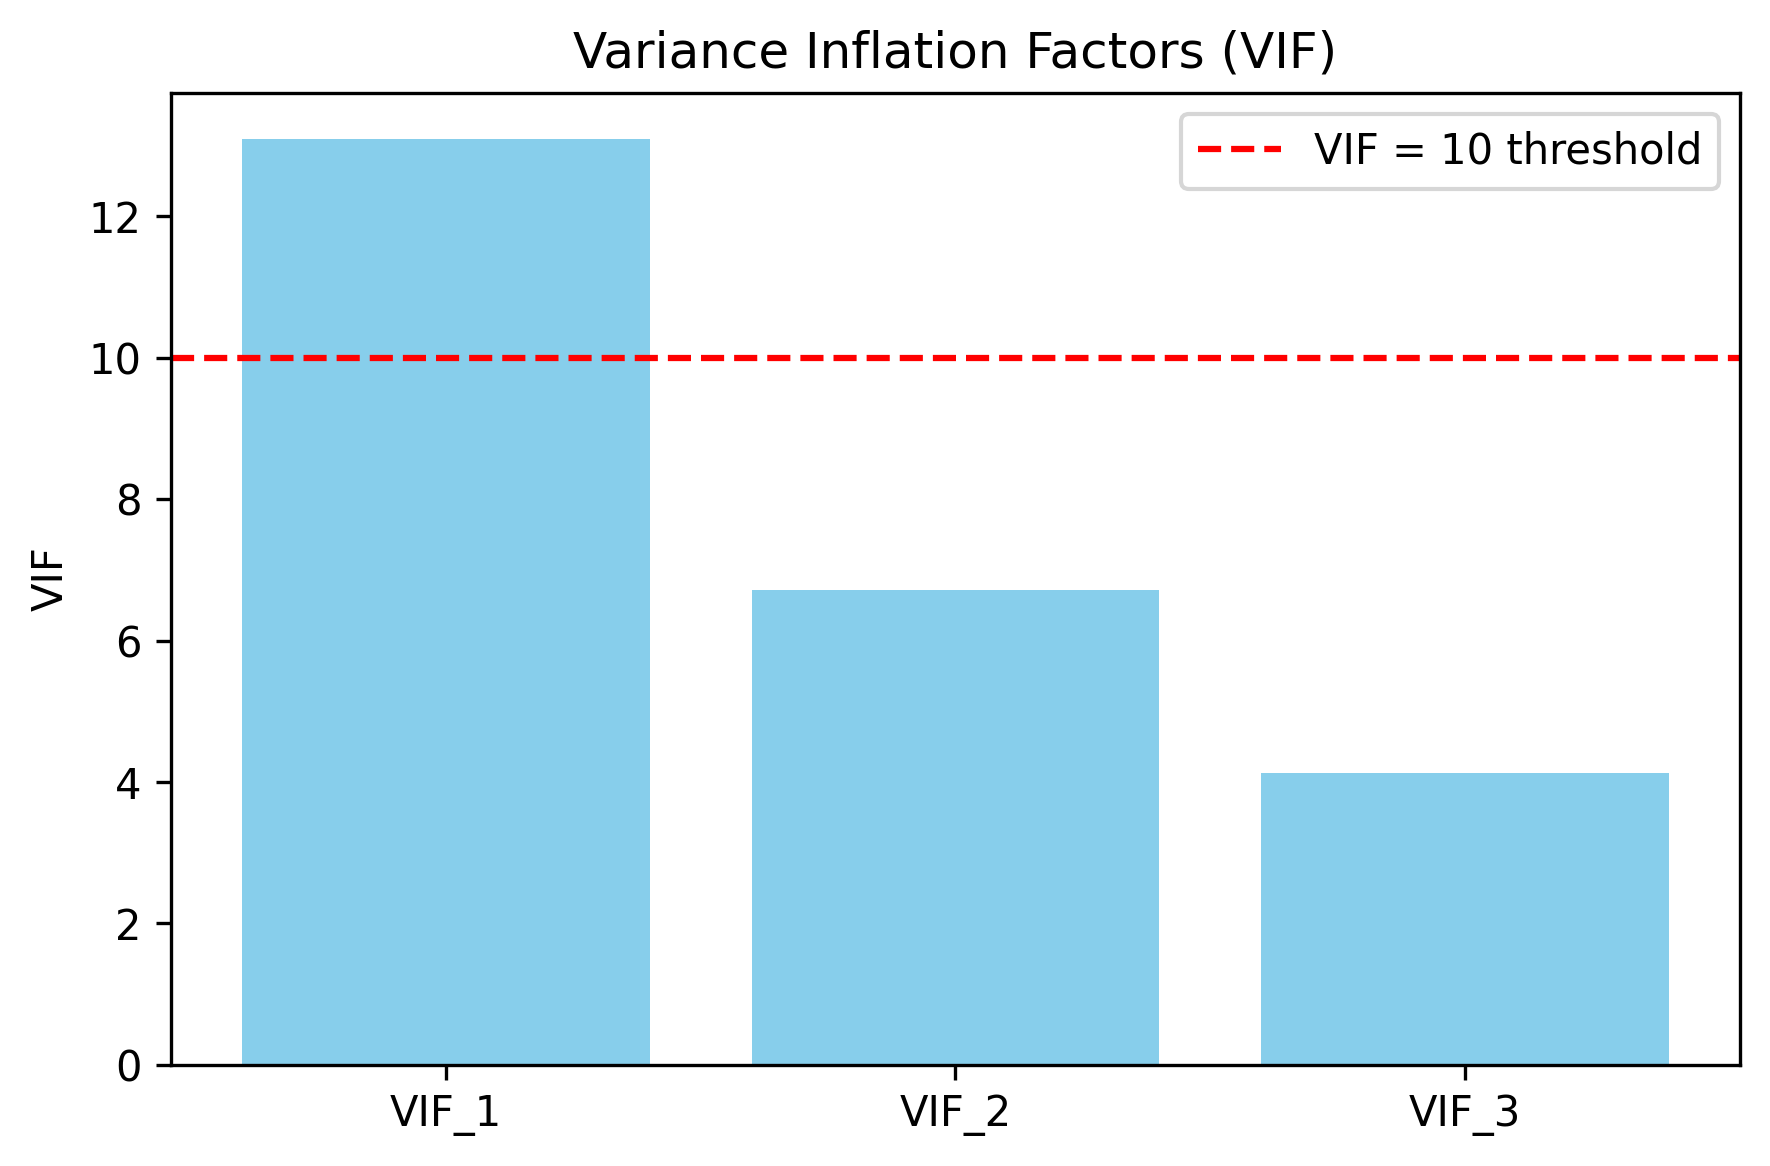
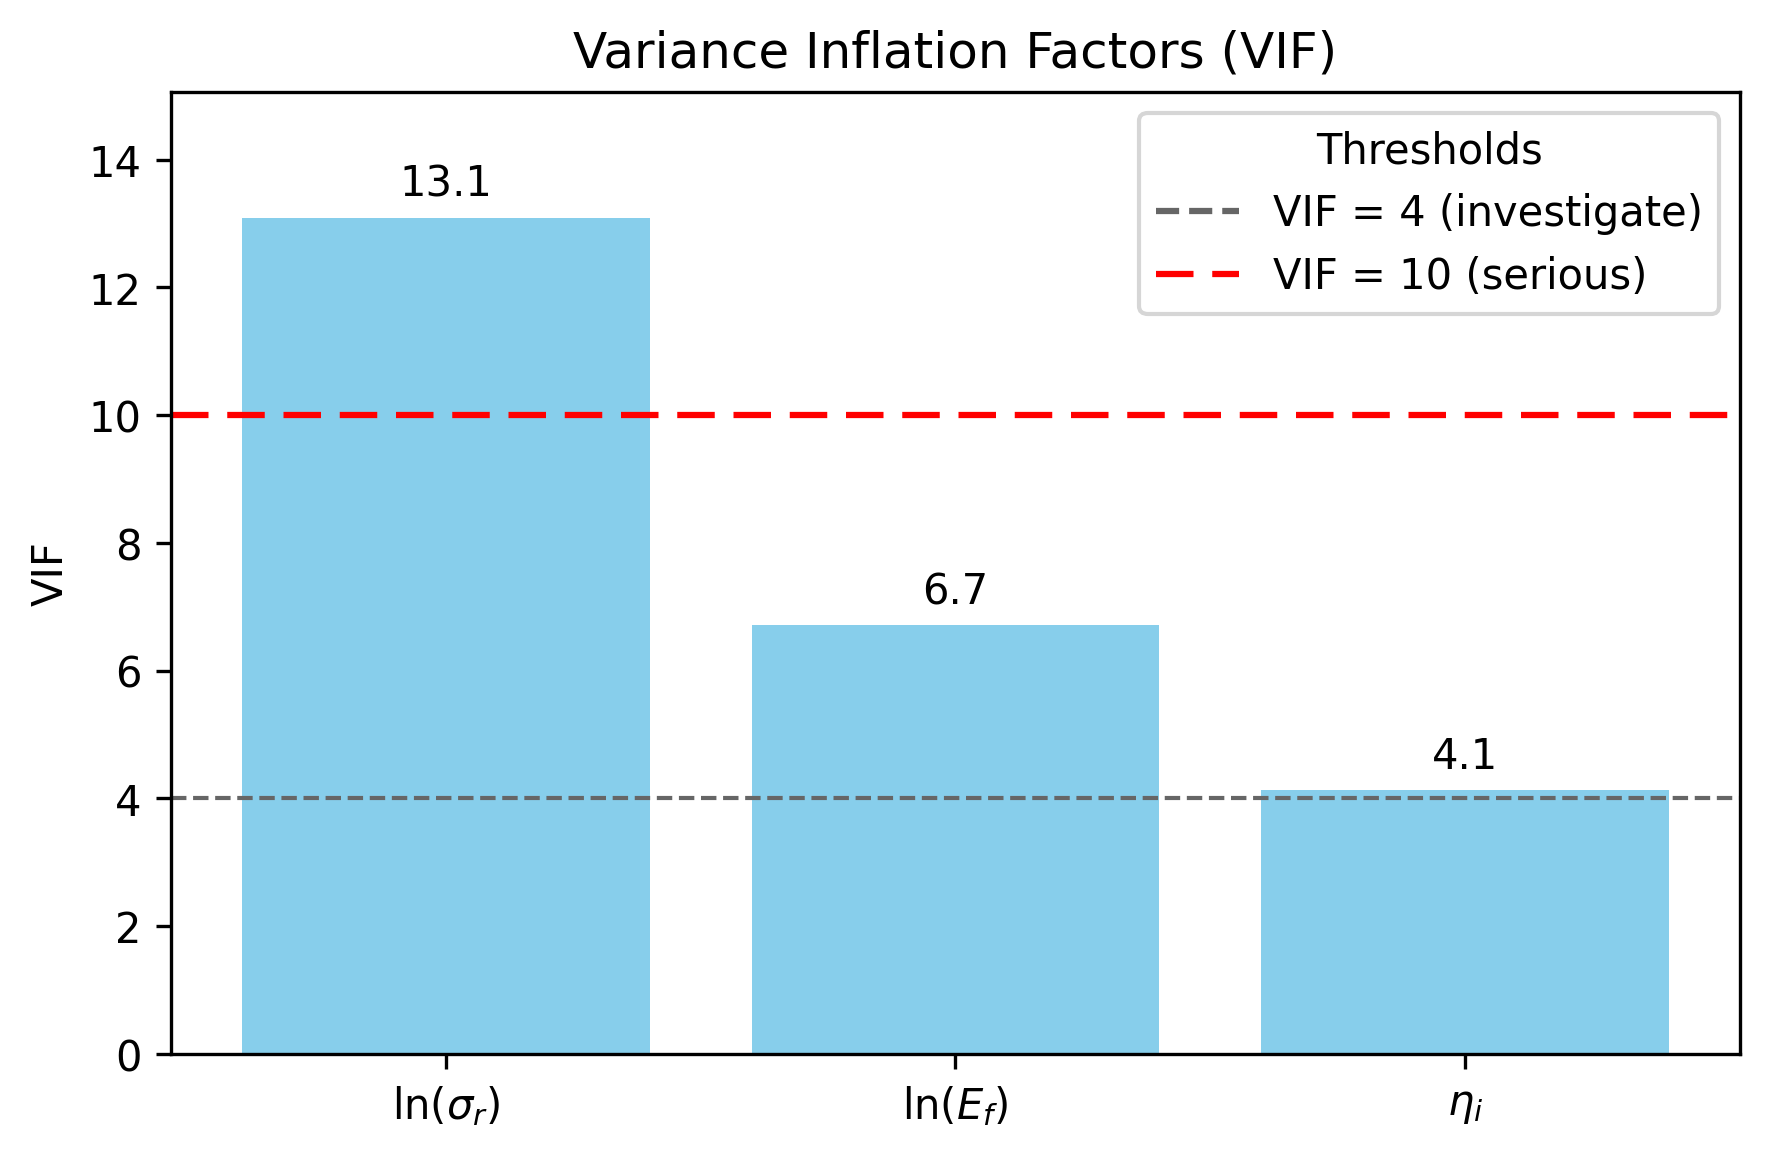
fig: update VIF/R² plots; scripts: labels & thresholds

diff --git a/scripts/statistical-analysis/fanti_multiple_regression.py b/scripts/statistical-analysis/fanti_multiple_regression.py
@@ -1,5 +1,6 @@
 import numpy as np
 import matplotlib.pyplot as plt
+from matplotlib.lines import Line2D
 from scipy import stats
 from statsmodels.regression.linear_model import OLS
 from statsmodels.robust.robust_linear_model import RLM
@@ -98,15 +99,33 @@ class FantiMultipleRegression:
         plt.savefig("figure2.png", dpi=300, bbox_inches="tight")
         plt.close()
 
-        names = list(self.vif.keys())
+        # noms/valeurs
+        names  = [r'$\ln(\sigma_r)$', r'$\ln(E_f)$', r'$\eta_i$']
         values = list(self.vif.values())
 
-        plt.figure(figsize=(6, 4))
-        bars = plt.bar(names, values, color='skyblue')
-        plt.axhline(y=10, color='red', linestyle='--', label='VIF = 10 threshold')
-        plt.ylabel("VIF")
-        plt.title("Variance Inflation Factors (VIF)")
-        plt.legend()
-        plt.tight_layout()
-        plt.savefig("figure5.png", dpi=300, bbox_inches="tight")
-        plt.close()
+        fig, ax = plt.subplots(figsize=(6, 4))
+
+        # barres
+        bars = ax.bar(names, values, color='skyblue')
+
+        # limites Y (méthode Axes, pas plt.set_ylim)
+        ax.set_ylim(0, 1.15 * max(values))
+
+        # seuils VIF
+        ax.axhline(4,  ls='--', lw=1,  color='0.4')
+        ax.axhline(10, ls='--', lw=1.5, color='r', dashes=(6, 3), label='VIF = 10')
+
+        # labels au-dessus des barres (padding en points)
+        ax.bar_label(bars, fmt='%.1f', padding=3)
+
+        # habillage
+        ax.set_ylabel("VIF")
+        ax.set_title("Variance Inflation Factors (VIF)")
+        handles = [Line2D([0],[0], ls='--', color='0.4'), Line2D([0],[0], ls='--', color='r', dashes=(6,3))]
+        labels  = ['VIF = 4 (investigate)', 'VIF = 10 (serious)']
+        ax.legend(handles, labels, title='Thresholds')
+
+        fig.tight_layout()
+        fig.savefig("figure5.png", dpi=300, bbox_inches="tight")
+        plt.close(fig)
+
